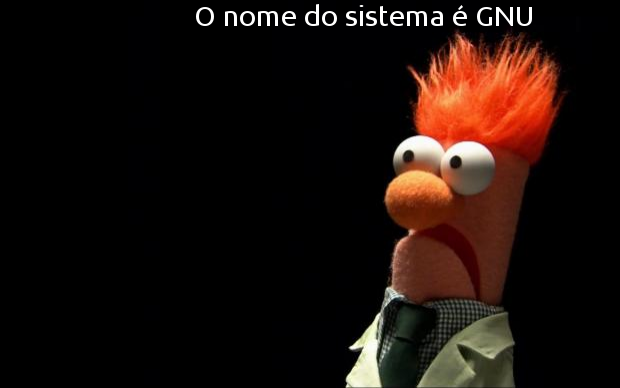
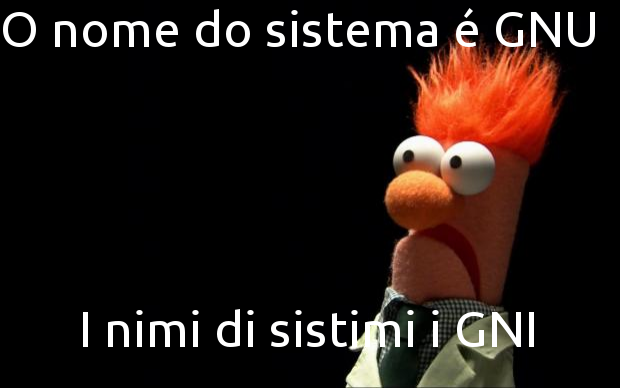
Adjusting font size to image width

Changed region(s): [[0.0, 0.0, 0.9806, 0.1237], [0.1226, 0.8041, 0.7048, 0.8969], [0.7355, 0.8041, 0.8887, 0.8969]]

diff --git a/TestBot/captionimg.py b/TestBot/captionimg.py
@@ -20,14 +20,14 @@ if os.path.exists(base_img) and os.path.isfile(base_img):
 
         # Get the image size and set font
         height, width = imgfile.size
-        f = ImageFont.truetype("/home/lucas/.fonts/Ubuntu.ttf", 28)
+        f = ImageFont.truetype("/home/lucas/.fonts/Ubuntu.ttf", 50)
 
         # Calculate coordinates:
-        center_width = width // 2
+        center_width = (width // 2) - 5 *len(original)
 
         # Draw text according to rules (center-up and center-down)
-        draw.text((center_width, 0), original, font=f)
-        draw.text((center_width, height), meme, font=f)
+        draw.text((0, 0), original, font=f)
+        draw.text((center_width, 300), meme, font=f)
 
         # Saving the new image:
         imgpath = os.path.join(os.getcwd(), 'img', 'new_img.png')
